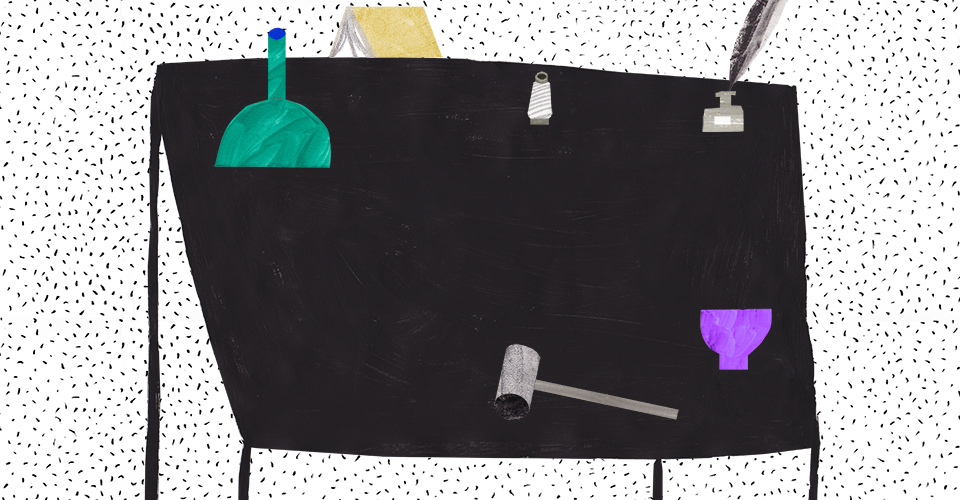
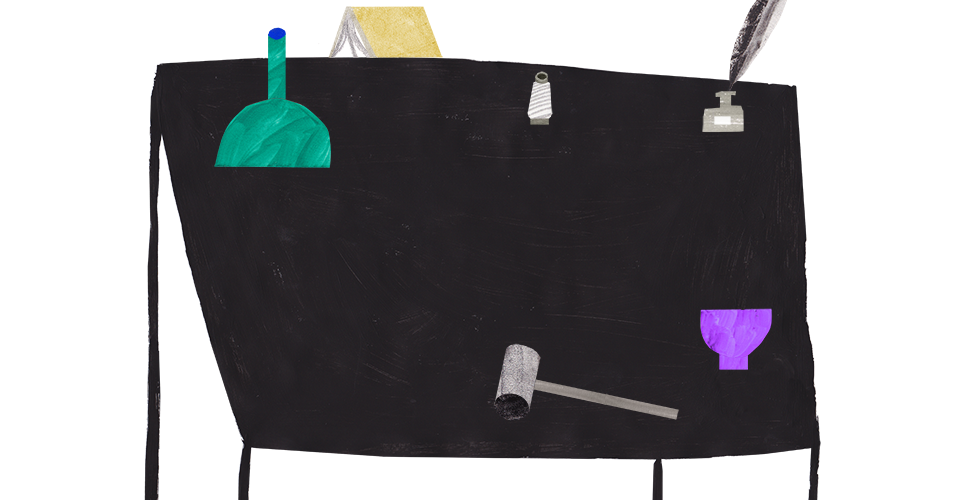
셀렉터 뺴고 종료

diff --git a/css/storygram.css b/css/storygram.css
@@ -99,52 +99,36 @@
 }
 
 .su-storyslide.story-0 .main-object {
-	background:  url(../img/story-0-main.png) 110px 0 no-repeat;
+	background:  url(../img/story-0-main.png) 0 0 no-repeat;
 }
 
 .su-storyslide.story-0 .main-object .story-element { background:red; }
-.su-storyslide.story-0 .main-object .story-element.num-0 {left:389px; top:166px; width:53px; height:54px; background: url(../img/story-0-num-0.png) no-repeat;}
-.su-storyslide.story-0 .main-object .story-element.num-1 {left:614px; top:245px; width:34px; height:35px; background: url(../img/story-0-num-1.png) no-repeat;}
-.su-storyslide.story-0 .main-object .story-element.num-2 {left:772px; top:357px; width:31px; height:32px; background: url(../img/story-0-num-2.png) no-repeat;}
-.su-storyslide.story-0 .main-object .story-element.num-3 {left:547px; top:221px; width:50px; height:49px; background: url(../img/story-0-num-3.png) no-repeat;}
-.su-storyslide.story-0 .main-object .story-element.num-4 {left:326px; top:338px; width:41px; height:43px; background: url(../img/story-0-num-4.png) no-repeat;}
-.su-storyslide.story-0 .main-object .story-element.num-5 {left:638px; top:78px; width:40px; height:39px; background: url(../img/story-0-num-5.png) no-repeat;}
-.su-storyslide.story-0 .main-object .story-element.num-6 {left:788px; top:181px; width:40px; height:39px; background: url(../img/story-0-num-6.png) no-repeat;}
-.su-storyslide.story-0 .main-object .story-element.num-7 {left:289px; top:53px; width:58px; height:53px; background: url(../img/story-0-num-7.png) no-repeat;}
-.su-storyslide.story-0 .main-object .story-element.num-8 {left:291px; top:198px; width:38px; height:54px; background: url(../img/story-0-num-8.png) no-repeat;}
-.su-storyslide.story-0 .main-object .story-element.num-9 {left:419px; top:48px; width:45px; height:48px; background: url(../img/story-0-num-9.png) no-repeat;}
-.su-storyslide.story-0 .main-object .story-element.num-10 {left:560px; top:374px; width:40px; height:37px; background: url(../img/story-0-num-10.png) no-repeat;}
-.su-storyslide.story-0 .main-object .story-element.num-11 {left:246px; top:179px; width:44px; height:47px; background: url(../img/story-0-num-11.png) no-repeat;}
-.su-storyslide.story-0 .main-object .story-element.num-12 {left:683px; top:209px; width:37px; height:60px; background: url(../img/story-0-num-12.png) no-repeat;}
-.su-storyslide.story-0 .main-object .story-element.num-13 {left:241px; top:67px; width:31px; height:32px; background: url(../img/story-0-num-13.png) no-repeat;}
-.su-storyslide.story-0 .main-object .story-element.num-14 {left:790px; top:107px; width:45px; height:48px; background: url(../img/story-0-num-14.png) no-repeat;}
-.su-storyslide.story-0 .main-object .story-element.num-15 {left:548px; top:48px; width:38px; height:61px; background: url(../img/story-0-num-15.png) no-repeat;}
-.su-storyslide.story-0 .main-object .story-element.num-16 {left:196px; top:316px; width:46px; height:47px; background: url(../img/story-0-num-16.png) no-repeat;}
-.su-storyslide.story-0 .main-object .story-element.num-17 {left:723px; top:39px; width:32px; height:32px; background: url(../img/story-0-num-17.png) no-repeat;}
-.su-storyslide.story-0 .main-object .story-element.num-18 {left:671px; top:355px; width:38px; height:55px; background: url(../img/story-0-num-18.png) no-repeat;}
-.su-storyslide.story-0 .main-object .story-element.num-19 {left:425px; top:289px; width:34px; height:35px; background: url(../img/story-0-num-19.png) no-repeat;}
-.su-storyslide.story-0 .main-object .story-element.num-20 {left:339px; top:260px; width:38px; height:52px; background: url(../img/story-0-num-20.png) no-repeat;}
-.su-storyslide.story-0 .main-object .story-element.num-21 {left:729px; top:264px; width:40px; height:38px; background: url(../img/story-0-num-21.png) no-repeat;}
-.su-storyslide.story-0 .main-object .story-element.num-22 {left:193px; top:262px; width:52px; height:54px; background: url(../img/story-0-num-22.png) no-repeat;}
-.su-storyslide.story-0 .main-object .story-element.num-23 {left:691px; top:118px; width:38px; height:54px; background: url(../img/story-0-num-23.png) no-repeat;}
-.su-storyslide.story-0 .main-object .story-element.num-24 {left:222px; top:226px; width:34px; height:33px; background: url(../img/story-0-num-24.png) no-repeat;}
-.su-storyslide.story-0 .main-object .story-element.num-25 {left:318px; top:116px; width:40px; height:38px; background: url(../img/story-0-num-25.png) no-repeat;}
-.su-storyslide.story-0 .main-object .story-element.num-26 {left:230px; top:366px; width:38px; height:60px; background: url(../img/story-0-num-26.png) no-repeat;}
-.su-storyslide.story-0 .main-object .story-element.num-27 {left:571px; top:315px; width:30px; height:28px; background: url(../img/story-0-num-27.png) no-repeat;}
-.su-storyslide.story-0 .main-object .story-element.num-28 {left:421px; top:387px; width:32px; height:32px; background: url(../img/story-0-num-28.png) no-repeat;}
-.su-storyslide.story-0 .main-object .story-element.num-29 {left:586px; top:24px; width:46px; height:46px; background: url(../img/story-0-num-29.png) no-repeat;}
-.su-storyslide.story-0 .main-object .story-element.num-30 {left:435px; top:229px; width:38px; height:56px; background: url(../img/story-0-num-30.png) no-repeat;}
-.su-storyslide.story-0 .main-object .story-element.num-31 {left:198px; top:34px; width:36px; height:35px; background: url(../img/story-0-num-31.png) no-repeat;}
-.su-storyslide.story-0 .main-object .story-element.num-32 {left:760px; top:47px; width:38px; height:60px; background: url(../img/story-0-num-32.png) no-repeat;}
-.su-storyslide.story-0 .main-object .story-element.num-33 {left:330px; top:225px; width:32px; height:34px; background: url(../img/story-0-num-33.png) no-repeat;}
-.su-storyslide.story-0 .main-object .story-element.num-34 {left:501px; top:188px; width:30px; height:30px; background: url(../img/story-0-num-34.png) no-repeat;}
-.su-storyslide.story-0 .main-object .story-element.num-35 {left:381px; top:130px; width:28px; height:29px; background: url(../img/story-0-num-35.png) no-repeat;}
-.su-storyslide.story-0 .main-object .story-element.num-36 {left:514px; top:101px; width:34px; height:34px; background: url(../img/story-0-num-36.png) no-repeat;}
-.su-storyslide.story-0 .main-object .story-element.num-37 {left:620px; top:133px; width:30px; height:28px; background: url(../img/story-0-num-37.png) no-repeat;}
-.su-storyslide.story-0 .main-object .story-element.num-38 {left:188px; top:77px; width:38px; height:62px; background: url(../img/story-0-num-38.png) no-repeat;}
-.su-storyslide.story-0 .main-object .story-element.num-39 {left:177px; top:196px; width:40px; height:38px; background: url(../img/story-0-num-39.png) no-repeat;}
-.su-storyslide.story-0 .main-object .story-element.num-40 {left:782px; top:249px; width:39px; height:58px; background: url(../img/story-0-num-40.png) no-repeat;}
-.su-storyslide.story-0 .main-object .story-element.num-41 {left:714px; top:316px; width:45px; height:46px; background: url(../img/story-0-num-41.png) no-repeat;}
+.su-storyslide.story-0 .main-object .story-element.num-0 {left:147px; top:18px; width:124px; height:104px; background: url(../img/story-0-num-0.png) no-repeat;}
+.su-storyslide.story-0 .main-object .story-element.num-1 {left:657px; top:311px; width:60px; height:58px; background: url(../img/story-0-num-1.png) no-repeat;}
+.su-storyslide.story-0 .main-object .story-element.num-2 {left:335px; top:391px; width:70px; height:84px; background: url(../img/story-0-num-2.png) no-repeat;}
+.su-storyslide.story-0 .main-object .story-element.num-3 {left:505px; top:61px; width:58px; height:86px; background: url(../img/story-0-num-3.png) no-repeat;}
+.su-storyslide.story-0 .main-object .story-element.num-4 {left:630px; top:163px; width:72px; height:103px; background: url(../img/story-0-num-4.png) no-repeat;}
+.su-storyslide.story-0 .main-object .story-element.num-5 {left:718px; top:232px; width:93px; height:62px; background: url(../img/story-0-num-5.png) no-repeat;}
+.su-storyslide.story-0 .main-object .story-element.num-6 {left:300px; top:127px; width:61px; height:102px; background: url(../img/story-0-num-6.png) no-repeat;}
+.su-storyslide.story-0 .main-object .story-element.num-7 {left:218px; top:408px; width:77px; height:79px; background: url(../img/story-0-num-7.png) no-repeat;}
+.su-storyslide.story-0 .main-object .story-element.num-8 {left:703px; top:35px; width:84px; height:56px; background: url(../img/story-0-num-8.png) no-repeat;}
+.su-storyslide.story-0 .main-object .story-element.num-9 {left:580px; top:405px; width:75px; height:88px; background: url(../img/story-0-num-9.png) no-repeat;}
+.su-storyslide.story-0 .main-object .story-element.num-10 {left:138px; top:333px; width:69px; height:43px; background: url(../img/story-0-num-10.png) no-repeat;}
+.su-storyslide.story-0 .main-object .story-element.num-11 {left:490px; top:179px; width:121px; height:71px; background: url(../img/story-0-num-11.png) no-repeat;}
+.su-storyslide.story-0 .main-object .story-element.num-12 {left:726px; top:118px; width:98px; height:75px; background: url(../img/story-0-num-12.png) no-repeat;}
+.su-storyslide.story-0 .main-object .story-element.num-13 {left:221px; top:264px; width:147px; height:112px; background: url(../img/story-0-num-13.png) no-repeat;}
+.su-storyslide.story-0 .main-object .story-element.num-14 {left:561px; top:276px; width:70px; height:93px; background: url(../img/story-0-num-14.png) no-repeat;}
+.su-storyslide.story-0 .main-object .story-element.num-15 {left:421px; top:333px; width:98px; height:68px; background: url(../img/story-0-num-15.png) no-repeat;}
+.su-storyslide.story-0 .main-object .story-element.num-16 {left:459px; top:9px; width:55px; height:41px; background: url(../img/story-0-num-16.png) no-repeat;}
+.su-storyslide.story-0 .main-object .story-element.num-17 {left:691px; top:397px; width:102px; height:84px; background: url(../img/story-0-num-17.png) no-repeat;}
+.su-storyslide.story-0 .main-object .story-element.num-18 {left:353px; top:15px; width:94px; height:76px; background: url(../img/story-0-num-18.png) no-repeat;}
+.su-storyslide.story-0 .main-object .story-element.num-19 {left:503px; top:423px; width:61px; height:47px; background: url(../img/story-0-num-19.png) no-repeat;}
+.su-storyslide.story-0 .main-object .story-element.num-20 {left:744px; top:319px; width:77px; height:58px; background: url(../img/story-0-num-20.png) no-repeat;}
+.su-storyslide.story-0 .main-object .story-element.num-21 {left:139px; top:194px; width:53px; height:70px; background: url(../img/story-0-num-21.png) no-repeat;}
+.su-storyslide.story-0 .main-object .story-element.num-22 {left:206px; top:144px; width:72px; height:61px; background: url(../img/story-0-num-22.png) no-repeat;}
+.su-storyslide.story-0 .main-object .story-element.num-23 {left:580px; top:43px; width:83px; height:71px; background: url(../img/story-0-num-23.png) no-repeat;}
+.su-storyslide.story-0 .main-object .story-element.num-24 {left:379px; top:128px; width:99px; height:173px; background: url(../img/story-0-num-24.png) no-repeat;}
+
 /* story-0 end*/
 
 /* story-1 */
@@ -191,26 +175,26 @@
 }
 
 .su-storyslide.story-2 .main-object .story-element { background:red; }
-.su-storyslide.story-2 .main-object .story-element.num-0 {left:269px; top:81px; width:85px; height:53px; background: url(../img/story-2-num-0.png) no-repeat;}
-.su-storyslide.story-2 .main-object .story-element.num-1 {left:335px; top:216px; width:54px; height:75px; background: url(../img/story-2-num-1.png) no-repeat;}
-.su-storyslide.story-2 .main-object .story-element.num-2 {left:294px; top:306px; width:61px; height:78px; background: url(../img/story-2-num-2.png) no-repeat;}
-.su-storyslide.story-2 .main-object .story-element.num-3 {left:137px; top:396px; width:95px; height:76px; background: url(../img/story-2-num-3.png) no-repeat;}
-.su-storyslide.story-2 .main-object .story-element.num-4 {left:207px; top:236px; width:43px; height:37px; background: url(../img/story-2-num-4.png) no-repeat;}
-.su-storyslide.story-2 .main-object .story-element.num-5 {left:129px; top:98px; width:71px; height:53px; background: url(../img/story-2-num-5.png) no-repeat;}
-.su-storyslide.story-2 .main-object .story-element.num-6 {left:283px; top:14px; width:42px; height:36px; background: url(../img/story-2-num-6.png) no-repeat;}
-.su-storyslide.story-2 .main-object .story-element.num-7 {left:421px; top:227px; width:64px; height:65px; background: url(../img/story-2-num-7.png) no-repeat;}
-.su-storyslide.story-2 .main-object .story-element.num-8 {left:575px; top:179px; width:40px; height:36px; background: url(../img/story-2-num-8.png) no-repeat;}
-.su-storyslide.story-2 .main-object .story-element.num-9 {left:411px; top:363px; width:81px; height:74px; background: url(../img/story-2-num-9.png) no-repeat;}
-.su-storyslide.story-2 .main-object .story-element.num-10 {left:465px; top:435px; width:47px; height:37px; background: url(../img/story-2-num-10.png) no-repeat;}
-.su-storyslide.story-2 .main-object .story-element.num-11 {left:628px; top:201px; width:33px; height:52px; background: url(../img/story-2-num-11.png) no-repeat;}
-.su-storyslide.story-2 .main-object .story-element.num-12 {left:666px; top:122px; width:33px; height:52px; background: url(../img/story-2-num-12.png) no-repeat;}
-.su-storyslide.story-2 .main-object .story-element.num-13 {left:775px; top:154px; width:33px; height:52px; background: url(../img/story-2-num-13.png) no-repeat;}
-.su-storyslide.story-2 .main-object .story-element.num-14 {left:732px; top:108px; width:33px; height:52px; background: url(../img/story-2-num-14.png) no-repeat;}
-.su-storyslide.story-2 .main-object .story-element.num-15 {left:686px; top:185px; width:33px; height:52px; background: url(../img/story-2-num-15.png) no-repeat;}
-.su-storyslide.story-2 .main-object .story-element.num-16 {left:744px; top:210px; width:33px; height:52px; background: url(../img/story-2-num-16.png) no-repeat;}
-.su-storyslide.story-2 .main-object .story-element.num-17 {left:660px; top:264px; width:33px; height:52px; background: url(../img/story-2-num-17.png) no-repeat;}
-.su-storyslide.story-2 .main-object .story-element.num-18 {left:669px; top:341px; width:28px; height:159px; background: url(../img/story-2-num-18.png) no-repeat;}
-.su-storyslide.story-2 .main-object .story-element.num-19 {left:696px; top:283px; width:124px; height:147px; background: url(../img/story-2-num-19.png) no-repeat;}
+.su-storyslide.story-2 .main-object .story-element.num-0 {left:389px; top:162px; width:92px; height:33px; background: url(../img/story-2-num-0.png) no-repeat;}
+.su-storyslide.story-2 .main-object .story-element.num-1 {left:603px; top:245px; width:90px; height:99px; background: url(../img/story-2-num-1.png) no-repeat;}
+.su-storyslide.story-2 .main-object .story-element.num-2 {left:375px; top:245px; width:84px; height:33px; background: url(../img/story-2-num-2.png) no-repeat;}
+.su-storyslide.story-2 .main-object .story-element.num-3 {left:734px; top:146px; width:47px; height:49px; background: url(../img/story-2-num-3.png) no-repeat;}
+.su-storyslide.story-2 .main-object .story-element.num-4 {left:607px; top:182px; width:109px; height:46px; background: url(../img/story-2-num-4.png) no-repeat;}
+.su-storyslide.story-2 .main-object .story-element.num-5 {left:399px; top:330px; width:92px; height:152px; background: url(../img/story-2-num-5.png) no-repeat;}
+.su-storyslide.story-2 .main-object .story-element.num-6 {left:344px; top:83px; width:26px; height:25px; background: url(../img/story-2-num-6.png) no-repeat;}
+.su-storyslide.story-2 .main-object .story-element.num-7 {left:232px; top:291px; width:155px; height:91px; background: url(../img/story-2-num-7.png) no-repeat;}
+.su-storyslide.story-2 .main-object .story-element.num-8 {left:701px; top:384px; width:34px; height:23px; background: url(../img/story-2-num-8.png) no-repeat;}
+.su-storyslide.story-2 .main-object .story-element.num-9 {left:748px; top:391px; width:39px; height:36px; background: url(../img/story-2-num-9.png) no-repeat;}
+.su-storyslide.story-2 .main-object .story-element.num-10 {left:787px; top:355px; width:34px; height:32px; background: url(../img/story-2-num-10.png) no-repeat;}
+.su-storyslide.story-2 .main-object .story-element.num-11 {left:281px; top:383px; width:85px; height:57px; background: url(../img/story-2-num-11.png) no-repeat;}
+.su-storyslide.story-2 .main-object .story-element.num-12 {left:201px; top:200px; width:61px; height:29px; background: url(../img/story-2-num-12.png) no-repeat;}
+.su-storyslide.story-2 .main-object .story-element.num-13 {left:226px; top:249px; width:23px; height:34px; background: url(../img/story-2-num-13.png) no-repeat;}
+.su-storyslide.story-2 .main-object .story-element.num-14 {left:164px; top:73px; width:50px; height:53px; background: url(../img/story-2-num-14.png) no-repeat;}
+.su-storyslide.story-2 .main-object .story-element.num-15 {left:727px; top:239px; width:33px; height:39px; background: url(../img/story-2-num-15.png) no-repeat;}
+.su-storyslide.story-2 .main-object .story-element.num-16 {left:273px; top:198px; width:157px; height:58px; background: url(../img/story-2-num-16.png) no-repeat;}
+.su-storyslide.story-2 .main-object .story-element.num-17 {left:586px; top:58px; width:91px; height:98px; background: url(../img/story-2-num-17.png) no-repeat;}
+.su-storyslide.story-2 .main-object .story-element.num-18 {left:384px; top:83px; width:113px; height:53px; background: url(../img/story-2-num-18.png) no-repeat;}
+.su-storyslide.story-2 .main-object .story-element.num-19 {left:487px; top:158px; width:84px; height:162px; background: url(../img/story-2-num-19.png) no-repeat;}
 
 /* story-2 end*/
 
@@ -246,3 +230,57 @@
 .su-storyslide.story-3 .main-object .story-element.num-19 {left:696px; top:283px; width:124px; height:147px; background: url(../img/story-3-num-19.png) no-repeat;}
 
 /* story-3 end*/
+
+/* story-4 */
+.su-storyslide.story-4 {
+	background: url(../img/story-4-bg.png) repeat-x;
+}
+
+.su-storyslide.story-4 .main-object {
+	background:  url(../img/story-4-main.png) 110px 0 no-repeat;
+}
+
+.su-storyslide.story-4 .main-object .story-element { background:red; }
+.su-storyslide.story-4 .main-object .story-element.num-0 {left:389px; top:166px; width:53px; height:54px; background: url(../img/story-4-num-0.png) no-repeat;}
+.su-storyslide.story-4 .main-object .story-element.num-1 {left:614px; top:245px; width:34px; height:35px; background: url(../img/story-4-num-1.png) no-repeat;}
+.su-storyslide.story-4 .main-object .story-element.num-2 {left:772px; top:357px; width:31px; height:32px; background: url(../img/story-4-num-2.png) no-repeat;}
+.su-storyslide.story-4 .main-object .story-element.num-3 {left:547px; top:221px; width:50px; height:49px; background: url(../img/story-4-num-3.png) no-repeat;}
+.su-storyslide.story-4 .main-object .story-element.num-4 {left:326px; top:338px; width:41px; height:43px; background: url(../img/story-4-num-4.png) no-repeat;}
+.su-storyslide.story-4 .main-object .story-element.num-5 {left:638px; top:78px; width:40px; height:39px; background: url(../img/story-4-num-5.png) no-repeat;}
+.su-storyslide.story-4 .main-object .story-element.num-6 {left:788px; top:181px; width:40px; height:39px; background: url(../img/story-4-num-6.png) no-repeat;}
+.su-storyslide.story-4 .main-object .story-element.num-7 {left:289px; top:53px; width:58px; height:53px; background: url(../img/story-4-num-7.png) no-repeat;}
+.su-storyslide.story-4 .main-object .story-element.num-8 {left:291px; top:198px; width:38px; height:54px; background: url(../img/story-4-num-8.png) no-repeat;}
+.su-storyslide.story-4 .main-object .story-element.num-9 {left:419px; top:48px; width:45px; height:48px; background: url(../img/story-4-num-9.png) no-repeat;}
+.su-storyslide.story-4 .main-object .story-element.num-10 {left:560px; top:374px; width:40px; height:37px; background: url(../img/story-4-num-10.png) no-repeat;}
+.su-storyslide.story-4 .main-object .story-element.num-11 {left:246px; top:179px; width:44px; height:47px; background: url(../img/story-4-num-11.png) no-repeat;}
+.su-storyslide.story-4 .main-object .story-element.num-12 {left:683px; top:209px; width:37px; height:60px; background: url(../img/story-4-num-12.png) no-repeat;}
+.su-storyslide.story-4 .main-object .story-element.num-13 {left:241px; top:67px; width:31px; height:32px; background: url(../img/story-4-num-13.png) no-repeat;}
+.su-storyslide.story-4 .main-object .story-element.num-14 {left:790px; top:107px; width:45px; height:48px; background: url(../img/story-4-num-14.png) no-repeat;}
+.su-storyslide.story-4 .main-object .story-element.num-15 {left:548px; top:48px; width:38px; height:61px; background: url(../img/story-4-num-15.png) no-repeat;}
+.su-storyslide.story-4 .main-object .story-element.num-16 {left:196px; top:316px; width:46px; height:47px; background: url(../img/story-4-num-16.png) no-repeat;}
+.su-storyslide.story-4 .main-object .story-element.num-17 {left:723px; top:39px; width:32px; height:32px; background: url(../img/story-4-num-17.png) no-repeat;}
+.su-storyslide.story-4 .main-object .story-element.num-18 {left:671px; top:355px; width:38px; height:55px; background: url(../img/story-4-num-18.png) no-repeat;}
+.su-storyslide.story-4 .main-object .story-element.num-19 {left:425px; top:289px; width:34px; height:35px; background: url(../img/story-4-num-19.png) no-repeat;}
+.su-storyslide.story-4 .main-object .story-element.num-20 {left:339px; top:260px; width:38px; height:52px; background: url(../img/story-4-num-20.png) no-repeat;}
+.su-storyslide.story-4 .main-object .story-element.num-21 {left:729px; top:264px; width:40px; height:38px; background: url(../img/story-4-num-21.png) no-repeat;}
+.su-storyslide.story-4 .main-object .story-element.num-22 {left:193px; top:262px; width:52px; height:54px; background: url(../img/story-4-num-22.png) no-repeat;}
+.su-storyslide.story-4 .main-object .story-element.num-23 {left:691px; top:118px; width:38px; height:54px; background: url(../img/story-4-num-23.png) no-repeat;}
+.su-storyslide.story-4 .main-object .story-element.num-24 {left:222px; top:226px; width:34px; height:33px; background: url(../img/story-4-num-24.png) no-repeat;}
+.su-storyslide.story-4 .main-object .story-element.num-25 {left:318px; top:116px; width:40px; height:38px; background: url(../img/story-4-num-25.png) no-repeat;}
+.su-storyslide.story-4 .main-object .story-element.num-26 {left:230px; top:366px; width:38px; height:60px; background: url(../img/story-4-num-26.png) no-repeat;}
+.su-storyslide.story-4 .main-object .story-element.num-27 {left:571px; top:315px; width:30px; height:28px; background: url(../img/story-4-num-27.png) no-repeat;}
+.su-storyslide.story-4 .main-object .story-element.num-28 {left:421px; top:387px; width:32px; height:32px; background: url(../img/story-4-num-28.png) no-repeat;}
+.su-storyslide.story-4 .main-object .story-element.num-29 {left:586px; top:24px; width:46px; height:46px; background: url(../img/story-4-num-29.png) no-repeat;}
+.su-storyslide.story-4 .main-object .story-element.num-30 {left:435px; top:229px; width:38px; height:56px; background: url(../img/story-4-num-30.png) no-repeat;}
+.su-storyslide.story-4 .main-object .story-element.num-31 {left:198px; top:34px; width:36px; height:35px; background: url(../img/story-4-num-31.png) no-repeat;}
+.su-storyslide.story-4 .main-object .story-element.num-32 {left:760px; top:47px; width:38px; height:60px; background: url(../img/story-4-num-32.png) no-repeat;}
+.su-storyslide.story-4 .main-object .story-element.num-33 {left:330px; top:225px; width:32px; height:34px; background: url(../img/story-4-num-33.png) no-repeat;}
+.su-storyslide.story-4 .main-object .story-element.num-34 {left:501px; top:188px; width:30px; height:30px; background: url(../img/story-4-num-34.png) no-repeat;}
+.su-storyslide.story-4 .main-object .story-element.num-35 {left:381px; top:130px; width:28px; height:29px; background: url(../img/story-4-num-35.png) no-repeat;}
+.su-storyslide.story-4 .main-object .story-element.num-36 {left:514px; top:101px; width:34px; height:34px; background: url(../img/story-4-num-36.png) no-repeat;}
+.su-storyslide.story-4 .main-object .story-element.num-37 {left:620px; top:133px; width:30px; height:28px; background: url(../img/story-4-num-37.png) no-repeat;}
+.su-storyslide.story-4 .main-object .story-element.num-38 {left:188px; top:77px; width:38px; height:62px; background: url(../img/story-4-num-38.png) no-repeat;}
+.su-storyslide.story-4 .main-object .story-element.num-39 {left:177px; top:196px; width:40px; height:38px; background: url(../img/story-4-num-39.png) no-repeat;}
+.su-storyslide.story-4 .main-object .story-element.num-40 {left:782px; top:249px; width:39px; height:58px; background: url(../img/story-4-num-40.png) no-repeat;}
+.su-storyslide.story-4 .main-object .story-element.num-41 {left:714px; top:316px; width:45px; height:46px; background: url(../img/story-4-num-41.png) no-repeat;}
+/* story-4 end*/

diff --git a/index.html b/index.html
@@ -27,12 +27,10 @@
                     </div>
                     <div class="su-storyslide story-1">
                         <div class="main-object">
-                            1번째 슬라이드
                         </div>
                     </div>
                     <div class="su-storyslide story-2">
                         <div class="main-object">
-                        2번째 슬라이드
                         </div>
                     </div>
                     <div class="su-storyslide story-3">
@@ -41,7 +39,6 @@
                     </div>
                     <div class="su-storyslide story-4">
                         <div class="main-object">
-                        4번째 슬라이드
                         </div>
                     </div>
                 </div>
